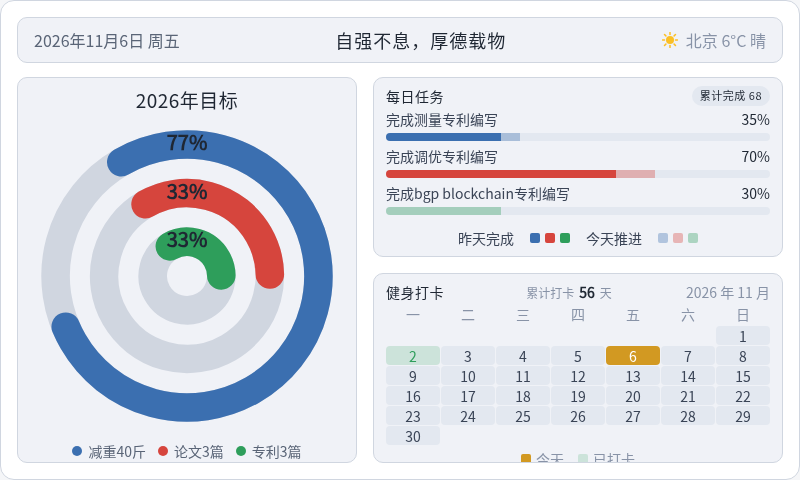
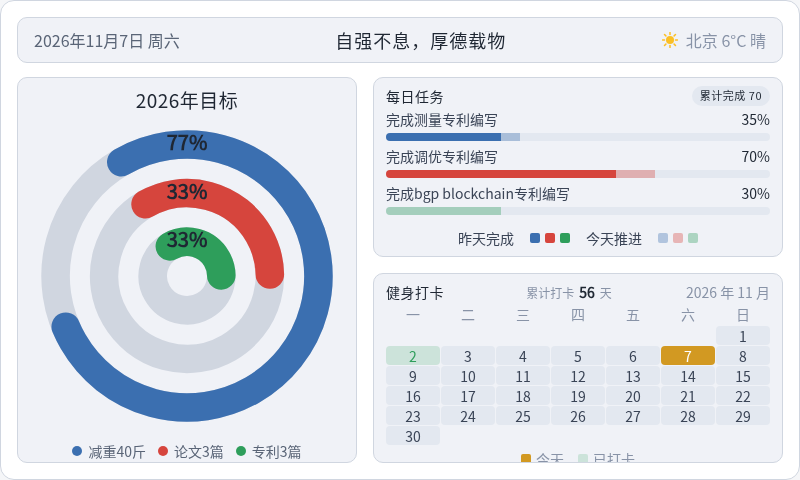
chore: 每日看板刷新 2026-11-07

Changed region(s): [[0.75, 0.7188, 0.9062, 0.7812], [0.9375, 0.1875, 0.9688, 0.2188], [0.1875, 0.0625, 0.2188, 0.0938]]

diff --git a/output/dashboard/dashboard.html b/output/dashboard/dashboard.html
@@ -185,7 +185,7 @@
 <body>
   <div class="dash">
     <div class="topbar">
-      <div class="tb-date" id="tbDate">2026年11月6日 周五</div>
+      <div class="tb-date" id="tbDate">2026年11月7日 周六</div>
       <div class="tb-slogan">自强不息，厚德载物</div>
       <div class="tb-weather">
         <svg width="16" height="16" viewBox="0 0 16 16" aria-hidden="true"><circle cx="8" cy="8" r="4" fill="#fbbf24"/><g stroke="#fbbf24" stroke-width="1.5" stroke-linecap="round"><line x1="8" y1="0.5" x2="8" y2="2.5"/><line x1="8" y1="13.5" x2="8" y2="15.5"/><line x1="0.5" y1="8" x2="2.5" y2="8"/><line x1="13.5" y1="8" x2="15.5" y2="8"/><line x1="2.5" y1="2.5" x2="3.9" y2="3.9"/><line x1="12.1" y1="12.1" x2="13.5" y2="13.5"/><line x1="13.5" y1="2.5" x2="12.1" y2="3.9"/><line x1="3.9" y1="12.1" x2="2.5" y2="13.5"/></g></svg>
@@ -210,7 +210,7 @@
     </div>
     <div class="col-right">
       <div class="panel tasks-panel">
-        <div class="panel-title" style="color:#1f2733">每日任务<span class="task-done-count">累计完成  68</span></div>
+        <div class="panel-title" style="color:#1f2733">每日任务<span class="task-done-count">累计完成  70</span></div>
         <div class="task">
           <div class="task-head"><span style="color:#3a4456">完成测量专利编写</span><span class="task-val" style="color:#1f2733">35%</span></div>
           <div class="bar">
@@ -248,7 +248,7 @@
           <span class="cal-date">2026 年 11 月</span>
         </div>
         <div class="cal-grid wk"><span>一</span><span>二</span><span>三</span><span>四</span><span>五</span><span>六</span><span>日</span></div>
-        <div class="cal-grid"><span class="cell empty"></span><span class="cell empty"></span><span class="cell empty"></span><span class="cell empty"></span><span class="cell empty"></span><span class="cell empty"></span><span class="cell" style="background:#e3e8f0;color:#3a4456">1</span><span class="cell done" style="background:rgba(46,158,91,0.18);color:#2e9e5b">2</span><span class="cell" style="background:#e3e8f0;color:#3a4456">3</span><span class="cell" style="background:#e3e8f0;color:#3a4456">4</span><span class="cell" style="background:#e3e8f0;color:#3a4456">5</span><span class="cell today" style="background:#d29922;color:#ffffff">6</span><span class="cell" style="background:#e3e8f0;color:#3a4456">7</span><span class="cell" style="background:#e3e8f0;color:#3a4456">8</span><span class="cell" style="background:#e3e8f0;color:#3a4456">9</span><span class="cell" style="background:#e3e8f0;color:#3a4456">10</span><span class="cell" style="background:#e3e8f0;color:#3a4456">11</span><span class="cell" style="background:#e3e8f0;color:#3a4456">12</span><span class="cell" style="background:#e3e8f0;color:#3a4456">13</span><span class="cell" style="background:#e3e8f0;color:#3a4456">14</span><span class="cell" style="background:#e3e8f0;color:#3a4456">15</span><span class="cell" style="background:#e3e8f0;color:#3a4456">16</span><span class="cell" style="background:#e3e8f0;color:#3a4456">17</span><span class="cell" style="background:#e3e8f0;color:#3a4456">18</span><span class="cell" style="background:#e3e8f0;color:#3a4456">19</span><span class="cell" style="background:#e3e8f0;color:#3a4456">20</span><span class="cell" style="background:#e3e8f0;color:#3a4456">21</span><span class="cell" style="background:#e3e8f0;color:#3a4456">22</span><span class="cell" style="background:#e3e8f0;color:#3a4456">23</span><span class="cell" style="background:#e3e8f0;color:#3a4456">24</span><span class="cell" style="background:#e3e8f0;color:#3a4456">25</span><span class="cell" style="background:#e3e8f0;color:#3a4456">26</span><span class="cell" style="background:#e3e8f0;color:#3a4456">27</span><span class="cell" style="background:#e3e8f0;color:#3a4456">28</span><span class="cell" style="background:#e3e8f0;color:#3a4456">29</span><span class="cell" style="background:#e3e8f0;color:#3a4456">30</span></div>
+        <div class="cal-grid"><span class="cell empty"></span><span class="cell empty"></span><span class="cell empty"></span><span class="cell empty"></span><span class="cell empty"></span><span class="cell empty"></span><span class="cell" style="background:#e3e8f0;color:#3a4456">1</span><span class="cell done" style="background:rgba(46,158,91,0.18);color:#2e9e5b">2</span><span class="cell" style="background:#e3e8f0;color:#3a4456">3</span><span class="cell" style="background:#e3e8f0;color:#3a4456">4</span><span class="cell" style="background:#e3e8f0;color:#3a4456">5</span><span class="cell" style="background:#e3e8f0;color:#3a4456">6</span><span class="cell today" style="background:#d29922;color:#ffffff">7</span><span class="cell" style="background:#e3e8f0;color:#3a4456">8</span><span class="cell" style="background:#e3e8f0;color:#3a4456">9</span><span class="cell" style="background:#e3e8f0;color:#3a4456">10</span><span class="cell" style="background:#e3e8f0;color:#3a4456">11</span><span class="cell" style="background:#e3e8f0;color:#3a4456">12</span><span class="cell" style="background:#e3e8f0;color:#3a4456">13</span><span class="cell" style="background:#e3e8f0;color:#3a4456">14</span><span class="cell" style="background:#e3e8f0;color:#3a4456">15</span><span class="cell" style="background:#e3e8f0;color:#3a4456">16</span><span class="cell" style="background:#e3e8f0;color:#3a4456">17</span><span class="cell" style="background:#e3e8f0;color:#3a4456">18</span><span class="cell" style="background:#e3e8f0;color:#3a4456">19</span><span class="cell" style="background:#e3e8f0;color:#3a4456">20</span><span class="cell" style="background:#e3e8f0;color:#3a4456">21</span><span class="cell" style="background:#e3e8f0;color:#3a4456">22</span><span class="cell" style="background:#e3e8f0;color:#3a4456">23</span><span class="cell" style="background:#e3e8f0;color:#3a4456">24</span><span class="cell" style="background:#e3e8f0;color:#3a4456">25</span><span class="cell" style="background:#e3e8f0;color:#3a4456">26</span><span class="cell" style="background:#e3e8f0;color:#3a4456">27</span><span class="cell" style="background:#e3e8f0;color:#3a4456">28</span><span class="cell" style="background:#e3e8f0;color:#3a4456">29</span><span class="cell" style="background:#e3e8f0;color:#3a4456">30</span></div>
         <div class="cal-legend">
           <span style="color:#8893a7"><i class="sw" style="background:#d29922"></i>今天</span>
           <span style="color:#8893a7"><i class="sw" style="background:rgba(46,158,91,0.18)"></i>已打卡</span>
